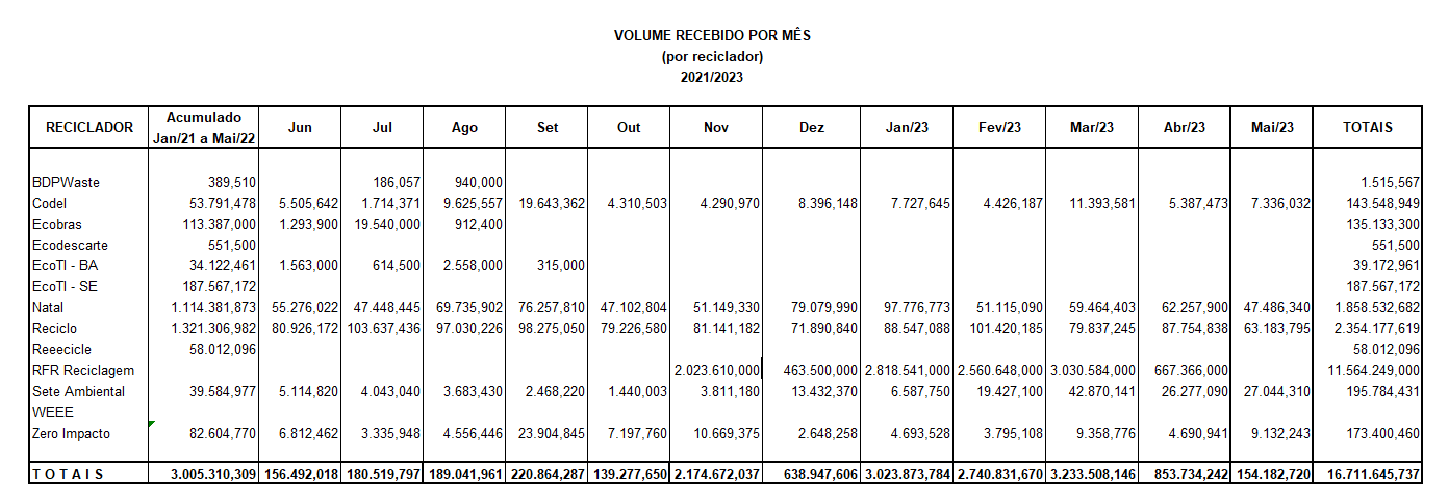
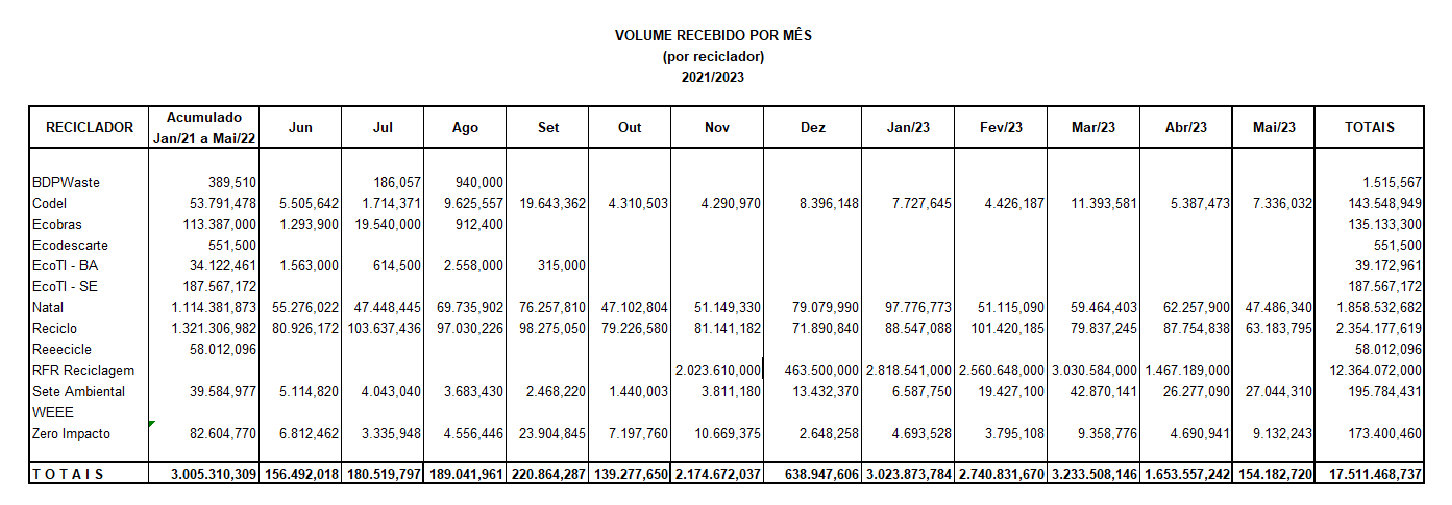
Inclusão da RFR em Mai/23

diff --git a/frontend/src/components/DataTable/index.tsx b/frontend/src/components/DataTable/index.tsx
@@ -86,10 +86,10 @@ const DataTable = () => {
                     </tr><tr>
                         <td>RFR Reciclagem</td>
                         <td>0</td>
-                        <td>22</td>
-                        <td>460</td>
+                        <td>24</td>
+                        <td>609</td>
                         <td>0,000</td>
-                        <td>11.618.140,000</td>
+                        <td>12.299.630,000</td>
                     </tr>
                     <tr>
                         <td>Sete Ambiental</td>
@@ -126,10 +126,10 @@ const DataTable = () => {
                     <tr>
                         <th>T O T A I S</th>
                         <th>3.628</th>
-                        <th>8.700</th>
-                        <th>3.870</th>
+                        <th>8.702</th>
+                        <th>4.019</th>
                         <th>881.732,808</th>
-                        <th>15.766.526,720</th>
+                        <th>16.597.436,720</th>
                     </tr>
                 </thead>
                 <tbody>

diff --git a/frontend/src/components/BarRecbMensal/index.tsx b/frontend/src/components/BarRecbMensal/index.tsx
@@ -21,7 +21,7 @@ const BarRecbMensal = () => {
         series: [
             {
                 name: "Kg Recebidos",
-                data: [108468, 113628,	123526, 138370, 186067, 187866, 219556, 162479, 257534, 204908, 255846, 235632, 170503, 177506, 183005, 129727, 151077, 156492, 180520, 189042, 220864, 139278, 2174672, 638948, 3023874, 2740832, 3233508, 853734, 154182]                  
+                data: [108468, 113628,	123526, 138370, 186067, 187866, 219556, 162479, 257534, 204908, 255846, 235632, 170503, 177506, 183005, 129727, 151077, 156492, 180520, 189042, 220864, 139278, 2174672, 638948, 3023874, 2740832, 3233508, 1653557, 154182]                  
             }
         ]
     };

diff --git a/frontend/src/components/BarReciclMensal/index.tsx b/frontend/src/components/BarReciclMensal/index.tsx
@@ -21,7 +21,7 @@ const BarReciclMensal = () => {
         series: [
             {
                 name: "Kg Reciclados",
-                data: [26339, 90712, 93643, 142116, 166545, 219788, 189244, 197028, 209382, 176002, 176982, 162728, 128780, 136990, 181336, 84713, 112874, 154528, 138325, 172608, 207822, 160358, 1986182, 743296, 2188760, 2122646, 2908162, 2422246, 66394]                  
+                data: [26339, 90712, 93643, 142116, 166545, 219788, 189244, 197028, 209382, 176002, 176982, 162728, 128780, 136990, 181336, 84713, 112874, 154528, 138325, 172608, 207822, 160358, 1986182, 743296, 2188760, 2122646, 2908162, 2422246, 897304]                  
             }
         ]
     };

diff --git a/frontend/src/components/DonutChart/index.tsx b/frontend/src/components/DonutChart/index.tsx
@@ -3,7 +3,7 @@ import Chart from 'react-apexcharts';
 const DonutChart = () => {
 
     const mockData = {
-        series: [0, 108.211, 46.304, 0, 9.459, 25.501, 1583.485, 2443.289, 0.184, 11468.730, 0.610, 0, 80.763],
+        series: [0, 108.211, 46.304, 0, 9.459, 25.501, 1583.485, 2443.289, 0.184, 12299.630, 0.610, 0, 80.763],
         labels: ['BDPWaste', 'Codel', 'Ecobras', 'Ecodescarte', 'EcoTI - BA', 'EcoTI - SE', 'Natal', 'Reciclo', 'Reeecicle', 'RFR Reciclagem' , 'Sete Ambiental', 'WEEE', 'Zero Impacto']
     }
     

diff --git a/frontend/src/components/BarChart/index.tsx b/frontend/src/components/BarChart/index.tsx
@@ -17,7 +17,7 @@ const BarChart = () => {
             series: [
             {
                 name: "Ton Reciclados",
-                data: [0, 108.211, 46.304, 0, 9.459, 25.501, 1583.485, 2443.289, 0.184, 11468.730, 0.610, 0, 80.763]                  
+                data: [0, 108.211, 46.304, 0, 9.459, 25.501, 1583.485, 2443.289, 0.184, 12299.630, 0.610, 0, 80.763]                  
             }
         ]
     };

diff --git a/frontend/src/components/BarOSs/index.tsx b/frontend/src/components/BarOSs/index.tsx
@@ -22,7 +22,7 @@ const BarOSs = () => {
         series: [
             {
                 name: "OS's Abertas",
-                data: [12, 410, 17, 6, 64, 158, 3396, 2492, 206, 22, 988, 12, 929]                  
+                data: [12, 410, 17, 6, 64, 158, 3396, 2492, 206, 24, 988, 12, 929]                  
             }
         ]
     };

diff --git a/frontend/src/components/BarODs/index.tsx b/frontend/src/components/BarODs/index.tsx
@@ -22,7 +22,7 @@ const BarODs = () => {
             series: [
             {
                 name: "OD's Abertas",
-                data: [0, 871, 23, 0, 49, 52, 517, 1727, 1, 460, 17, 71, 82]                  
+                data: [0, 871, 23, 0, 49, 52, 517, 1727, 1, 609, 17, 71, 82]                  
             }
         ]
     };
